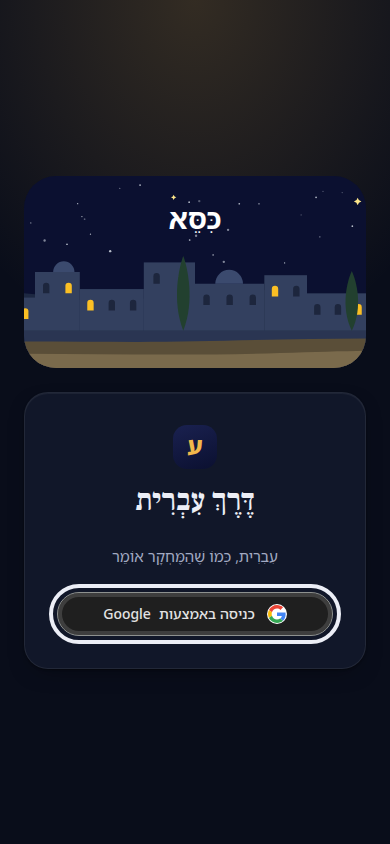
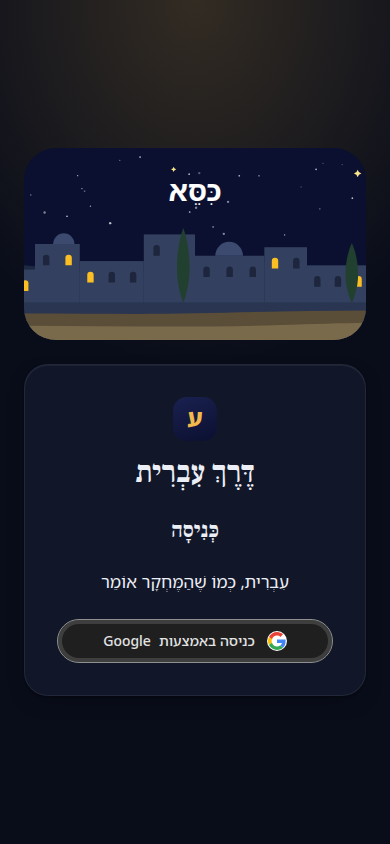
Correct the sign-in lede and pin the sheva spelling.
עִבְרִית uses sheva under the bet, and a test rejects the hiriq form. The lede is body size, the title is on the page, and the 1440 panels are wider.

Changed region(s): [[0.0615, 0.2156, 0.9538, 0.8009], [0.5538, 0.5237, 0.6462, 0.6161]]

diff --git a/internal/web/static/css/base.css b/internal/web/static/css/base.css
@@ -462,11 +462,19 @@ h1 {
   line-height: var(--lh-he-display);
   white-space: nowrap;
 }
+.signin__title {
+  margin: 0;
+  font-family: var(--font-display);
+  font-size: var(--fs-h2);
+  font-weight: 700;
+  line-height: var(--lh-he-display);
+}
 .signin__lede {
-  max-inline-size: 28ch;
-  color: var(--muted);
-  font-size: var(--fs-small);
+  max-inline-size: 40ch;
+  color: var(--text);
+  font-size: var(--fs-body);
   line-height: var(--lh-he-body);
+  text-wrap: balance;
 }
 @media (min-width: 1024px) {
   .signin {
@@ -474,7 +482,7 @@ h1 {
     align-items: center;
     justify-items: stretch;
     gap: var(--space-7);
-    inline-size: min(100%, var(--content-max));
+    inline-size: min(100%, calc(var(--content-max) + var(--space-9) * 3));
     margin-inline: auto;
     padding: var(--space-7);
   }

diff --git a/internal/web/views/pages_templ.go b/internal/web/views/pages_templ.go
@@ -815,7 +815,22 @@ func SignIn(p Page) templ.Component {
 		if templ_7745c5c3_Err != nil {
 			return templ_7745c5c3_Err
 		}
-		templ_7745c5c3_Err = templruntime.WriteString(templ_7745c5c3_Buffer, 62, "</span></h1><p class=\"signin__lede\">")
+		templ_7745c5c3_Err = templruntime.WriteString(templ_7745c5c3_Buffer, 62, "</span></h1><p class=\"signin__title\">")
+		if templ_7745c5c3_Err != nil {
+			return templ_7745c5c3_Err
+		}
+		if p.Lang == "en" {
+			templ_7745c5c3_Err = E(SignInTitleEN).Render(ctx, templ_7745c5c3_Buffer)
+			if templ_7745c5c3_Err != nil {
+				return templ_7745c5c3_Err
+			}
+		} else {
+			templ_7745c5c3_Err = H(SignInTitleHE).Render(ctx, templ_7745c5c3_Buffer)
+			if templ_7745c5c3_Err != nil {
+				return templ_7745c5c3_Err
+			}
+		}
+		templ_7745c5c3_Err = templruntime.WriteString(templ_7745c5c3_Buffer, 63, "</p><p class=\"signin__lede\">")
 		if templ_7745c5c3_Err != nil {
 			return templ_7745c5c3_Err
 		}
@@ -830,20 +845,20 @@ func SignIn(p Page) templ.Component {
 				return templ_7745c5c3_Err
 			}
 		}
-		templ_7745c5c3_Err = templruntime.WriteString(templ_7745c5c3_Buffer, 63, "</p><a class=\"gbtn\" href=\"")
+		templ_7745c5c3_Err = templruntime.WriteString(templ_7745c5c3_Buffer, 64, "</p><a class=\"gbtn\" href=\"")
 		if templ_7745c5c3_Err != nil {
 			return templ_7745c5c3_Err
 		}
 		var templ_7745c5c3_Var49 templ.SafeURL
 		templ_7745c5c3_Var49, templ_7745c5c3_Err = templ.JoinURLErrs(templ.SafeURL(GoogleSignInStart))
 		if templ_7745c5c3_Err != nil {
-			return templ.Error{Err: templ_7745c5c3_Err, FileName: `internal/web/views/pages.templ`, Line: 128, Col: 60}
+			return templ.Error{Err: templ_7745c5c3_Err, FileName: `internal/web/views/pages.templ`, Line: 135, Col: 60}
 		}
 		_, templ_7745c5c3_Err = templ_7745c5c3_Buffer.WriteString(templ.EscapeString(templ_7745c5c3_Var49))
 		if templ_7745c5c3_Err != nil {
 			return templ_7745c5c3_Err
 		}
-		templ_7745c5c3_Err = templruntime.WriteString(templ_7745c5c3_Buffer, 64, "\">")
+		templ_7745c5c3_Err = templruntime.WriteString(templ_7745c5c3_Buffer, 65, "\">")
 		if templ_7745c5c3_Err != nil {
 			return templ_7745c5c3_Err
 		}
@@ -851,7 +866,7 @@ func SignIn(p Page) templ.Component {
 		if templ_7745c5c3_Err != nil {
 			return templ_7745c5c3_Err
 		}
-		templ_7745c5c3_Err = templruntime.WriteString(templ_7745c5c3_Buffer, 65, "<span class=\"gbtn__label\">")
+		templ_7745c5c3_Err = templruntime.WriteString(templ_7745c5c3_Buffer, 66, "<span class=\"gbtn__label\">")
 		if templ_7745c5c3_Err != nil {
 			return templ_7745c5c3_Err
 		}
@@ -865,7 +880,7 @@ func SignIn(p Page) templ.Component {
 			if templ_7745c5c3_Err != nil {
 				return templ_7745c5c3_Err
 			}
-			templ_7745c5c3_Err = templruntime.WriteString(templ_7745c5c3_Buffer, 66, " ")
+			templ_7745c5c3_Err = templruntime.WriteString(templ_7745c5c3_Buffer, 67, " ")
 			if templ_7745c5c3_Err != nil {
 				return templ_7745c5c3_Err
 			}
@@ -874,7 +889,7 @@ func SignIn(p Page) templ.Component {
 				return templ_7745c5c3_Err
 			}
 		}
-		templ_7745c5c3_Err = templruntime.WriteString(templ_7745c5c3_Buffer, 67, "</span></a></section></main></body></html>")
+		templ_7745c5c3_Err = templruntime.WriteString(templ_7745c5c3_Buffer, 68, "</span></a></section></main></body></html>")
 		if templ_7745c5c3_Err != nil {
 			return templ_7745c5c3_Err
 		}
@@ -904,7 +919,7 @@ func googleMark() templ.Component {
 			templ_7745c5c3_Var50 = templ.NopComponent
 		}
 		ctx = templ.ClearChildren(ctx)
-		templ_7745c5c3_Err = templruntime.WriteString(templ_7745c5c3_Buffer, 68, "<span class=\"gbtn__mark\" aria-hidden=\"true\"><svg class=\"gbtn__logo\" viewBox=\"0 0 48 48\" focusable=\"false\"><path fill=\"#EA4335\" d=\"M24 9.5c3.54 0 6.71 1.22 9.21 3.6l6.85-6.85C35.9 2.38 30.47 0 24 0 14.62 0 6.51 5.38 2.56 13.22l7.98 6.19C12.43 13.72 17.74 9.5 24 9.5z\"></path> <path fill=\"#4285F4\" d=\"M46.98 24.55c0-1.57-.15-3.09-.38-4.55H24v9.02h12.94c-.58 2.96-2.26 5.48-4.78 7.18l7.73 6c4.51-4.18 7.09-10.36 7.09-17.65z\"></path> <path fill=\"#FBBC05\" d=\"M10.53 28.59c-.48-1.45-.76-2.99-.76-4.59s.27-3.14.76-4.59l-7.98-6.19C.92 16.46 0 20.12 0 24c0 3.88.92 7.54 2.56 10.78l7.97-6.19z\"></path> <path fill=\"#34A853\" d=\"M24 48c6.48 0 11.93-2.13 15.89-5.81l-7.73-6c-2.15 1.45-4.92 2.3-8.16 2.3-6.26 0-11.57-4.22-13.47-9.91l-7.98 6.19C6.51 42.62 14.62 48 24 48z\"></path> <path fill=\"none\" d=\"M0 0h48v48H0z\"></path></svg></span>")
+		templ_7745c5c3_Err = templruntime.WriteString(templ_7745c5c3_Buffer, 69, "<span class=\"gbtn__mark\" aria-hidden=\"true\"><svg class=\"gbtn__logo\" viewBox=\"0 0 48 48\" focusable=\"false\"><path fill=\"#EA4335\" d=\"M24 9.5c3.54 0 6.71 1.22 9.21 3.6l6.85-6.85C35.9 2.38 30.47 0 24 0 14.62 0 6.51 5.38 2.56 13.22l7.98 6.19C12.43 13.72 17.74 9.5 24 9.5z\"></path> <path fill=\"#4285F4\" d=\"M46.98 24.55c0-1.57-.15-3.09-.38-4.55H24v9.02h12.94c-.58 2.96-2.26 5.48-4.78 7.18l7.73 6c4.51-4.18 7.09-10.36 7.09-17.65z\"></path> <path fill=\"#FBBC05\" d=\"M10.53 28.59c-.48-1.45-.76-2.99-.76-4.59s.27-3.14.76-4.59l-7.98-6.19C.92 16.46 0 20.12 0 24c0 3.88.92 7.54 2.56 10.78l7.97-6.19z\"></path> <path fill=\"#34A853\" d=\"M24 48c6.48 0 11.93-2.13 15.89-5.81l-7.73-6c-2.15 1.45-4.92 2.3-8.16 2.3-6.26 0-11.57-4.22-13.47-9.91l-7.98 6.19C6.51 42.62 14.62 48 24 48z\"></path> <path fill=\"none\" d=\"M0 0h48v48H0z\"></path></svg></span>")
 		if templ_7745c5c3_Err != nil {
 			return templ_7745c5c3_Err
 		}
@@ -945,59 +960,59 @@ func Lesson(p Page) templ.Component {
 				}()
 			}
 			ctx = templ.InitializeContext(ctx)
-			templ_7745c5c3_Err = templruntime.WriteString(templ_7745c5c3_Buffer, 69, "<article class=\"sheet\"><h1 lang=\"")
+			templ_7745c5c3_Err = templruntime.WriteString(templ_7745c5c3_Buffer, 70, "<article class=\"sheet\"><h1 lang=\"")
 			if templ_7745c5c3_Err != nil {
 				return templ_7745c5c3_Err
 			}
 			var templ_7745c5c3_Var53 string
 			templ_7745c5c3_Var53, templ_7745c5c3_Err = templ.JoinStringErrs(p.Lang)
 			if templ_7745c5c3_Err != nil {
-				return templ.Error{Err: templ_7745c5c3_Err, FileName: `internal/web/views/pages.templ`, Line: 161, Col: 20}
+				return templ.Error{Err: templ_7745c5c3_Err, FileName: `internal/web/views/pages.templ`, Line: 168, Col: 20}
 			}
 			_, templ_7745c5c3_Err = templ_7745c5c3_Buffer.WriteString(templ.EscapeString(templ_7745c5c3_Var53))
 			if templ_7745c5c3_Err != nil {
 				return templ_7745c5c3_Err
 			}
-			templ_7745c5c3_Err = templruntime.WriteString(templ_7745c5c3_Buffer, 70, "\">")
+			templ_7745c5c3_Err = templruntime.WriteString(templ_7745c5c3_Buffer, 71, "\">")
 			if templ_7745c5c3_Err != nil {
 				return templ_7745c5c3_Err
 			}
 			var templ_7745c5c3_Var54 string
 			templ_7745c5c3_Var54, templ_7745c5c3_Err = templ.JoinStringErrs(p.LessonHeading)
 			if templ_7745c5c3_Err != nil {
-				return templ.Error{Err: templ_7745c5c3_Err, FileName: `internal/web/views/pages.templ`, Line: 161, Col: 40}
+				return templ.Error{Err: templ_7745c5c3_Err, FileName: `internal/web/views/pages.templ`, Line: 168, Col: 40}
 			}
 			_, templ_7745c5c3_Err = templ_7745c5c3_Buffer.WriteString(templ.EscapeString(templ_7745c5c3_Var54))
 			if templ_7745c5c3_Err != nil {
 				return templ_7745c5c3_Err
 			}
-			templ_7745c5c3_Err = templruntime.WriteString(templ_7745c5c3_Buffer, 71, "</h1><p class=\"lede\" lang=\"")
+			templ_7745c5c3_Err = templruntime.WriteString(templ_7745c5c3_Buffer, 72, "</h1><p class=\"lede\" lang=\"")
 			if templ_7745c5c3_Err != nil {
 				return templ_7745c5c3_Err
 			}
 			var templ_7745c5c3_Var55 string
 			templ_7745c5c3_Var55, templ_7745c5c3_Err = templ.JoinStringErrs(p.Lang)
 			if templ_7745c5c3_Err != nil {
-				return templ.Error{Err: templ_7745c5c3_Err, FileName: `internal/web/views/pages.templ`, Line: 162, Col: 32}
+				return templ.Error{Err: templ_7745c5c3_Err, FileName: `internal/web/views/pages.templ`, Line: 169, Col: 32}
 			}
 			_, templ_7745c5c3_Err = templ_7745c5c3_Buffer.WriteString(templ.EscapeString(templ_7745c5c3_Var55))
 			if templ_7745c5c3_Err != nil {
 				return templ_7745c5c3_Err
 			}
-			templ_7745c5c3_Err = templruntime.WriteString(templ_7745c5c3_Buffer, 72, "\">")
+			templ_7745c5c3_Err = templruntime.WriteString(templ_7745c5c3_Buffer, 73, "\">")
 			if templ_7745c5c3_Err != nil {
 				return templ_7745c5c3_Err
 			}
 			var templ_7745c5c3_Var56 string
 			templ_7745c5c3_Var56, templ_7745c5c3_Err = templ.JoinStringErrs(p.LessonLede)
 			if templ_7745c5c3_Err != nil {
-				return templ.Error{Err: templ_7745c5c3_Err, FileName: `internal/web/views/pages.templ`, Line: 162, Col: 49}
+				return templ.Error{Err: templ_7745c5c3_Err, FileName: `internal/web/views/pages.templ`, Line: 169, Col: 49}
 			}
 			_, templ_7745c5c3_Err = templ_7745c5c3_Buffer.WriteString(templ.EscapeString(templ_7745c5c3_Var56))
 			if templ_7745c5c3_Err != nil {
 				return templ_7745c5c3_Err
 			}
-			templ_7745c5c3_Err = templruntime.WriteString(templ_7745c5c3_Buffer, 73, "</p></article>")
+			templ_7745c5c3_Err = templruntime.WriteString(templ_7745c5c3_Buffer, 74, "</p></article>")
 			if templ_7745c5c3_Err != nil {
 				return templ_7745c5c3_Err
 			}

diff --git a/internal/web/signin_test.go b/internal/web/signin_test.go
@@ -17,6 +17,7 @@ import (
 	"github.com/NetworkBuild3r/hebrew-lessons/internal/auth"
 	"github.com/NetworkBuild3r/hebrew-lessons/internal/db"
 	"github.com/NetworkBuild3r/hebrew-lessons/internal/web/views"
+	"golang.org/x/text/unicode/norm"
 )
 
 func TestSignInPage(t *testing.T) {
@@ -99,6 +100,28 @@ func TestSignInRedirectsSignedInUser(t *testing.T) {
 	}
 }
 
+func TestSignInLedeHESheva(t *testing.T) {
+	// עִבְרִית is ayin+hiriq, bet+sheva, resh+hiriq, yod, tav.
+	// The rejected spelling puts hiriq (U+05B4) under the bet.
+	const (
+		sheva = "\u05E2\u05B4\u05D1\u05B0\u05E8\u05B4\u05D9\u05EA"
+		hiriq = "\u05E2\u05B4\u05D1\u05B4\u05E8\u05B4\u05D9\u05EA"
+	)
+	if !norm.NFC.IsNormalString(views.SignInLedeHE) {
+		t.Fatal("SignInLedeHE is not NFC")
+	}
+	if !strings.Contains(views.SignInLedeHE, sheva) {
+		t.Fatalf("SignInLedeHE = %q, want %q (sheva under the bet)", views.SignInLedeHE, sheva)
+	}
+	if strings.Contains(views.SignInLedeHE, hiriq) {
+		t.Fatal("SignInLedeHE has hiriq under the bet")
+	}
+	word, _, _ := strings.Cut(views.SignInLedeHE, ",")
+	if !strings.Contains(views.AppName, word) {
+		t.Fatalf("lede first word %q is not the spelling in AppName", word)
+	}
+}
+
 func assertSignIn(t *testing.T, body, lang string) {
 	t.Helper()
 	dir := "rtl"
@@ -123,9 +146,14 @@ func assertSignIn(t *testing.T, body, lang string) {
 	if strings.Contains(body, `class="pair"`) || strings.Contains(body, "גּוּגֶל") || strings.Contains(body, "btn-primary") {
 		t.Fatal("sign-in still pairs both languages or uses the blue primary")
 	}
+	title := views.SignInTitleHE
 	lede, other := views.SignInLedeHE, views.SignInLedeEN
 	if lang == "en" {
+		title = views.SignInTitleEN
 		lede, other = other, lede
+	}
+	if !strings.Contains(body, `class="signin__title"`) || !strings.Contains(body, title) {
+		t.Fatal("sign-in title is not rendered")
 	}
 	if !strings.Contains(body, lede) || strings.Contains(body, other) {
 		t.Fatal("sign-in lede should be the interface language only")

diff --git a/internal/web/views/page.go b/internal/web/views/page.go
@@ -16,11 +16,12 @@ const AppName = "דֶּרֶךְ עִבְרִית"
 //
 // SignInGoogleHE is Google's Hebrew button label, unpointed, with the
 // word Google rendered separately in Latin. SignInWord is the pointed
-// teaser on the night slate.
+// teaser on the night slate. SignInLedeHE points עִבְרִית with sheva
+// (U+05B0) under the bet.
 const (
 	SignInTitleHE     = "כְּנִיסָה"
 	SignInTitleEN     = "Sign in"
-	SignInLedeHE      = "עִבִרִית, כְּמוֹ שֶׁהַמֶּחְקָר אוֹמֵר"
+	SignInLedeHE      = "עִבְרִית, כְּמוֹ שֶׁהַמֶּחְקָר אוֹמֵר"
 	SignInLedeEN      = "Hebrew, the way research says works"
 	SignInGoogleHE    = "כניסה באמצעות"
 	SignInGoogleEN    = "Sign in with Google"
